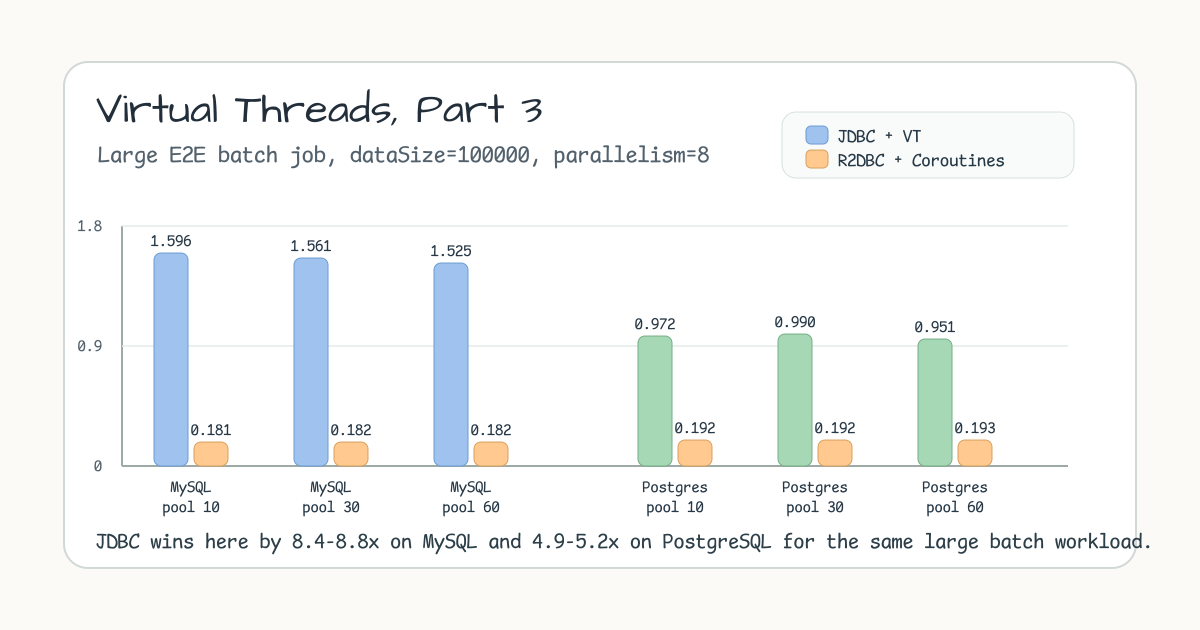
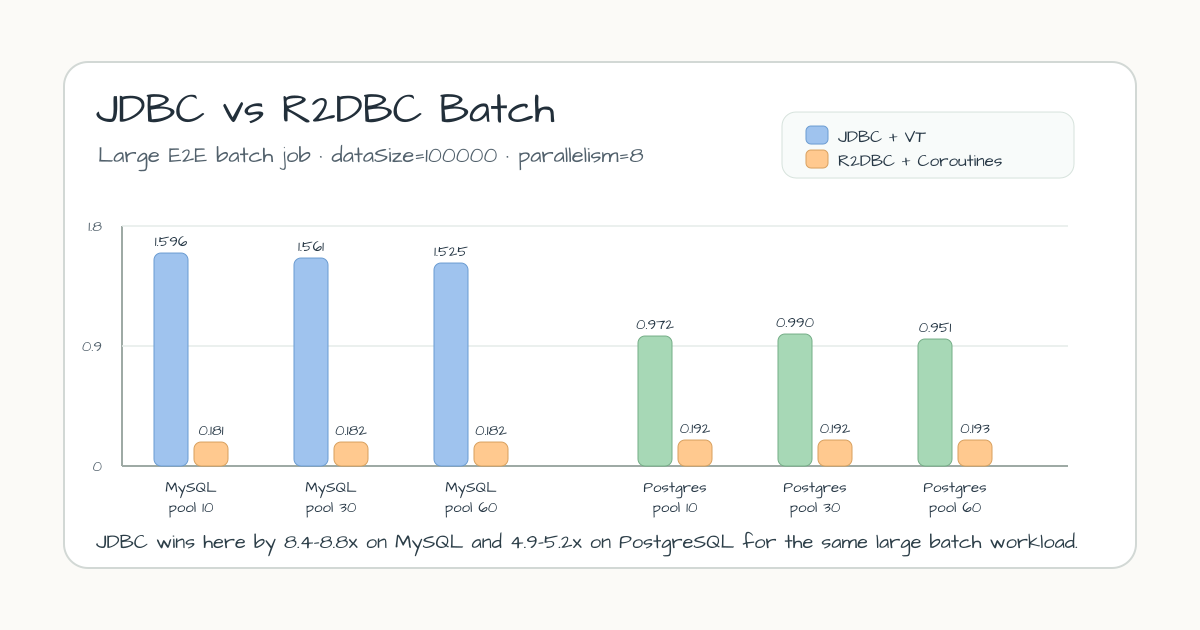
docs: reposition virtual threads benchmark charts
Move the JDBC vs R2DBC batch chart into the batch comparison section, add a separate General Exposed JDBC throughput chart, and render both charts with the Architects Daughter style.

Constraint: Part 3 needs one chart for the general Exposed JDBC benchmark and a separate chart for the JDBC vs R2DBC batch comparison.

Rejected: Keep the batch comparison chart near the article intro | it made the chart appear detached from the relevant section.

Confidence: high

Scope-risk: narrow

Directive: Keep benchmark charts next to the section they explain, and use the established hand-drawn chart font.

Tested: npm run build; git diff --check; source order check for Korean Part 3 chart placement.

Not-tested: Production deployment before push.

diff --git a/docs/blog/virtual-threads-part3-jdbc-r2dbc-benchmark.md b/docs/blog/virtual-threads-part3-jdbc-r2dbc-benchmark.md
@@ -35,15 +35,6 @@ tuned around pool size and indexes, and batch benchmarks often favored JDBC + Vi
 over R2DBC + Coroutines for the same workload.
 
 
-This chart isolates a large end-to-end batch job with `dataSize=100000` and `parallelism=8`.
-Blue bars are JDBC + Virtual Threads, orange bars are R2DBC + Coroutines. Under the same pool
-size, MySQL showed about 8.4-8.8x difference and PostgreSQL about 4.9-5.2x.
-
-<figure class="bt4k-architecture">
-  <img src="/assets/virtual-threads-part3-benchmark-01.png" alt="Benchmark summary comparing JDBC with virtual threads and R2DBC with coroutines" loading="lazy" />
-  <figcaption>R2DBC looked like the obvious winner, but the benchmark results disagreed. A practical look at JDBC + Virtual Threads.</figcaption>
-</figure>
-
 ## First, the General Exposed JDBC Benchmark
 
 Looking only at batch results would make the conclusion too narrow. `bluetape4k-exposed` also
@@ -69,6 +60,11 @@ thread count, then added indexes for the JOIN target table.
 | HikariCP max=24, minIdle=8, `@Threads(14)` | 43,487 ops/sec |
 | Add orders-table index | 44,161 ops/sec |
 | Highest point after stronger measurement settings | 45,431 ops/sec |
+
+<figure class="bt4k-architecture">
+  <img src="/assets/virtual-threads-part3-exposed-jdbc-01.png" alt="General Exposed JDBC benchmark throughput chart from baseline to tuned settings" loading="lazy" />
+  <figcaption>The ordinary Exposed JDBC path improved from 25.4k to 45.4k ops/sec after pool/thread tuning and JOIN indexes.</figcaption>
+</figure>
 
 This is not a direct JDBC-vs-R2DBC comparison. It is evidence that the ordinary Exposed JDBC
 path is sensitive to pool size, thread concurrency, and index design. In other words: measure
@@ -139,6 +135,11 @@ The MySQL seed benchmark was especially wide. At `dataSize=100000`, JDBC reached
 `1.455 ops/sec`; R2DBC was about `0.050 ops/sec`, roughly a 29x difference.
 
 For the large end-to-end job, the result is easier to read.
+
+<figure class="bt4k-architecture">
+  <img src="/assets/virtual-threads-part3-benchmark-01.png" alt="JDBC vs R2DBC batch benchmark chart for large end-to-end jobs" loading="lazy" />
+  <figcaption>Large end-to-end batch jobs favored JDBC + Virtual Threads by about 8.4-8.8x on MySQL and 4.9-5.2x on PostgreSQL.</figcaption>
+</figure>
 
 | DB | poolSize | JDBC ops/sec | R2DBC ops/sec | JDBC/R2DBC |
 |---|---:|---:|---:|---:|
